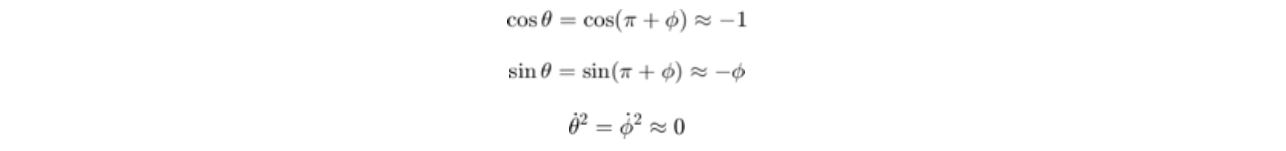
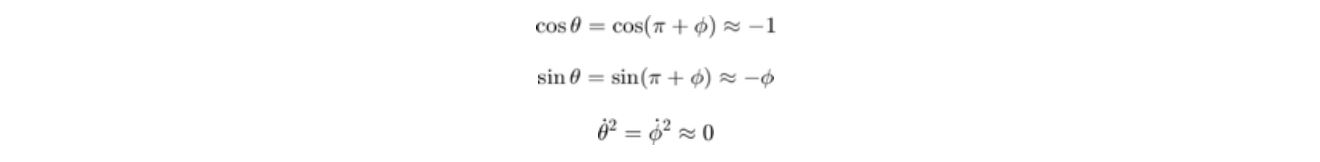
fixing post bugs

Changed region(s): [[0.3733, 0.0795, 0.591, 0.2384], [0.3733, 0.3974, 0.591, 0.5563], [0.4355, 0.7152, 0.5599, 0.9007]]

diff --git a/css/main.css b/css/main.css
@@ -48,5 +48,5 @@ img {
     display: block;
     margin-left: auto;
     margin-right: auto;
-    width: 40%;
+    width: 70%;
 }

diff --git a/_posts/2020-08-04-SBIP Modelling.md b/_posts/2020-08-04-SBIP Modelling.md
@@ -60,7 +60,7 @@ Similarly, the second equation of motion can be found by summing the forces perp
 
 <h2> Linearization </h2>
 <p>
-The last step is to linearize the two equations of motion. The equations must be linearized since the techniques used to design the controller for the system must be applied to a linear-time-invariant system in order to be valid. The linearization will be valid as long as the pendulum does not deviate further then 20 degrees from the point of linearization. Beyond that point, the error will begin to become too great and the system could become unstable despite the control action applied. Referring to Figure 1, the angle of the pendulum (&thetasym;) in the upright position is at &pi; degrees. A deviation of &phi; degrees affects the pendulum according to &thetasym; = &pi; + &phi;. The following approximations are substituted into the two nonlinear equations of motion,
+The last step is to linearize the two equations of motion. The equations must be linearized since the techniques used to design the controller for the system must be applied to a linear-time-invariant system in order to be valid. The linearization will be valid as long as the pendulum does not deviate further then 20 degrees from the point of linearization. Beyond that point, the error will begin to become too great and the system could become unstable despite the control action applied. Referring to Figure 1, the angle of the pendulum (&theta;) in the upright position is at &pi; degrees. A deviation of &phi; degrees affects the pendulum according to &theta; = &pi; + &phi;. The following approximations are substituted into the two nonlinear equations of motion,
 </p>
 
 <figure>
